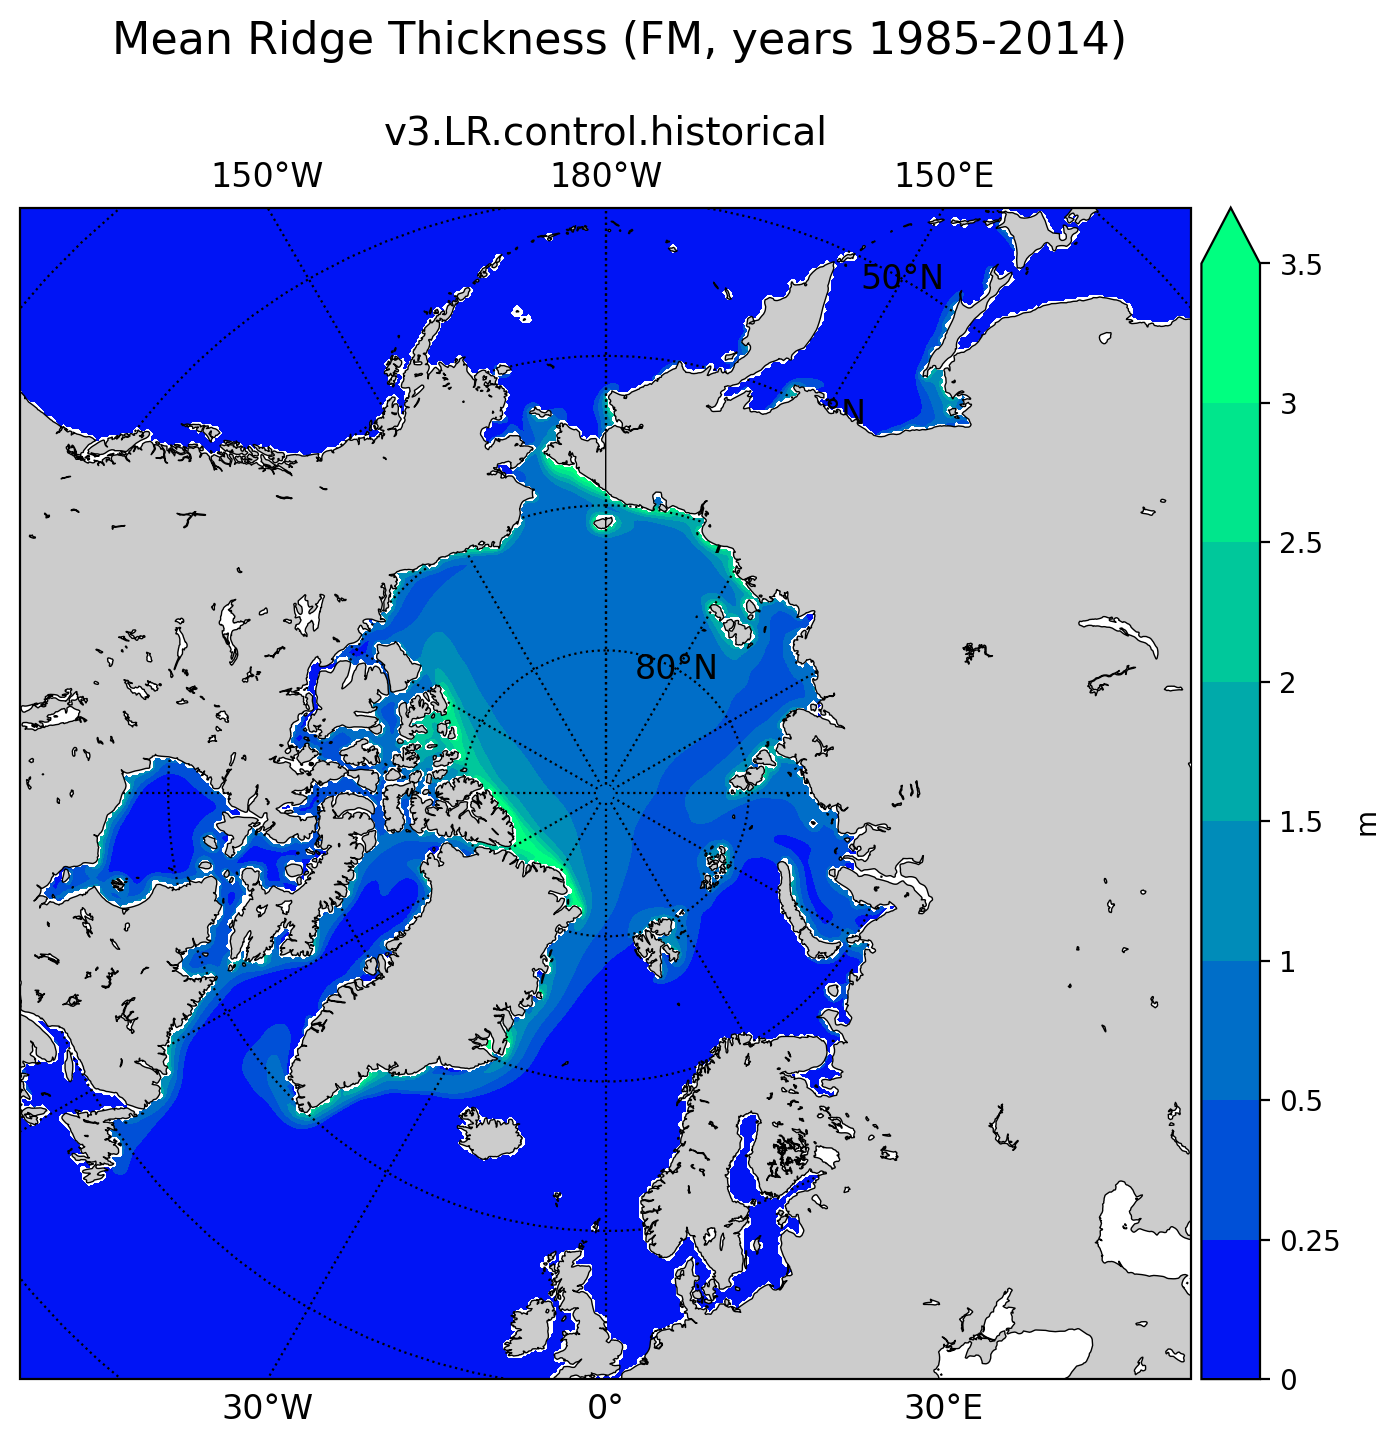
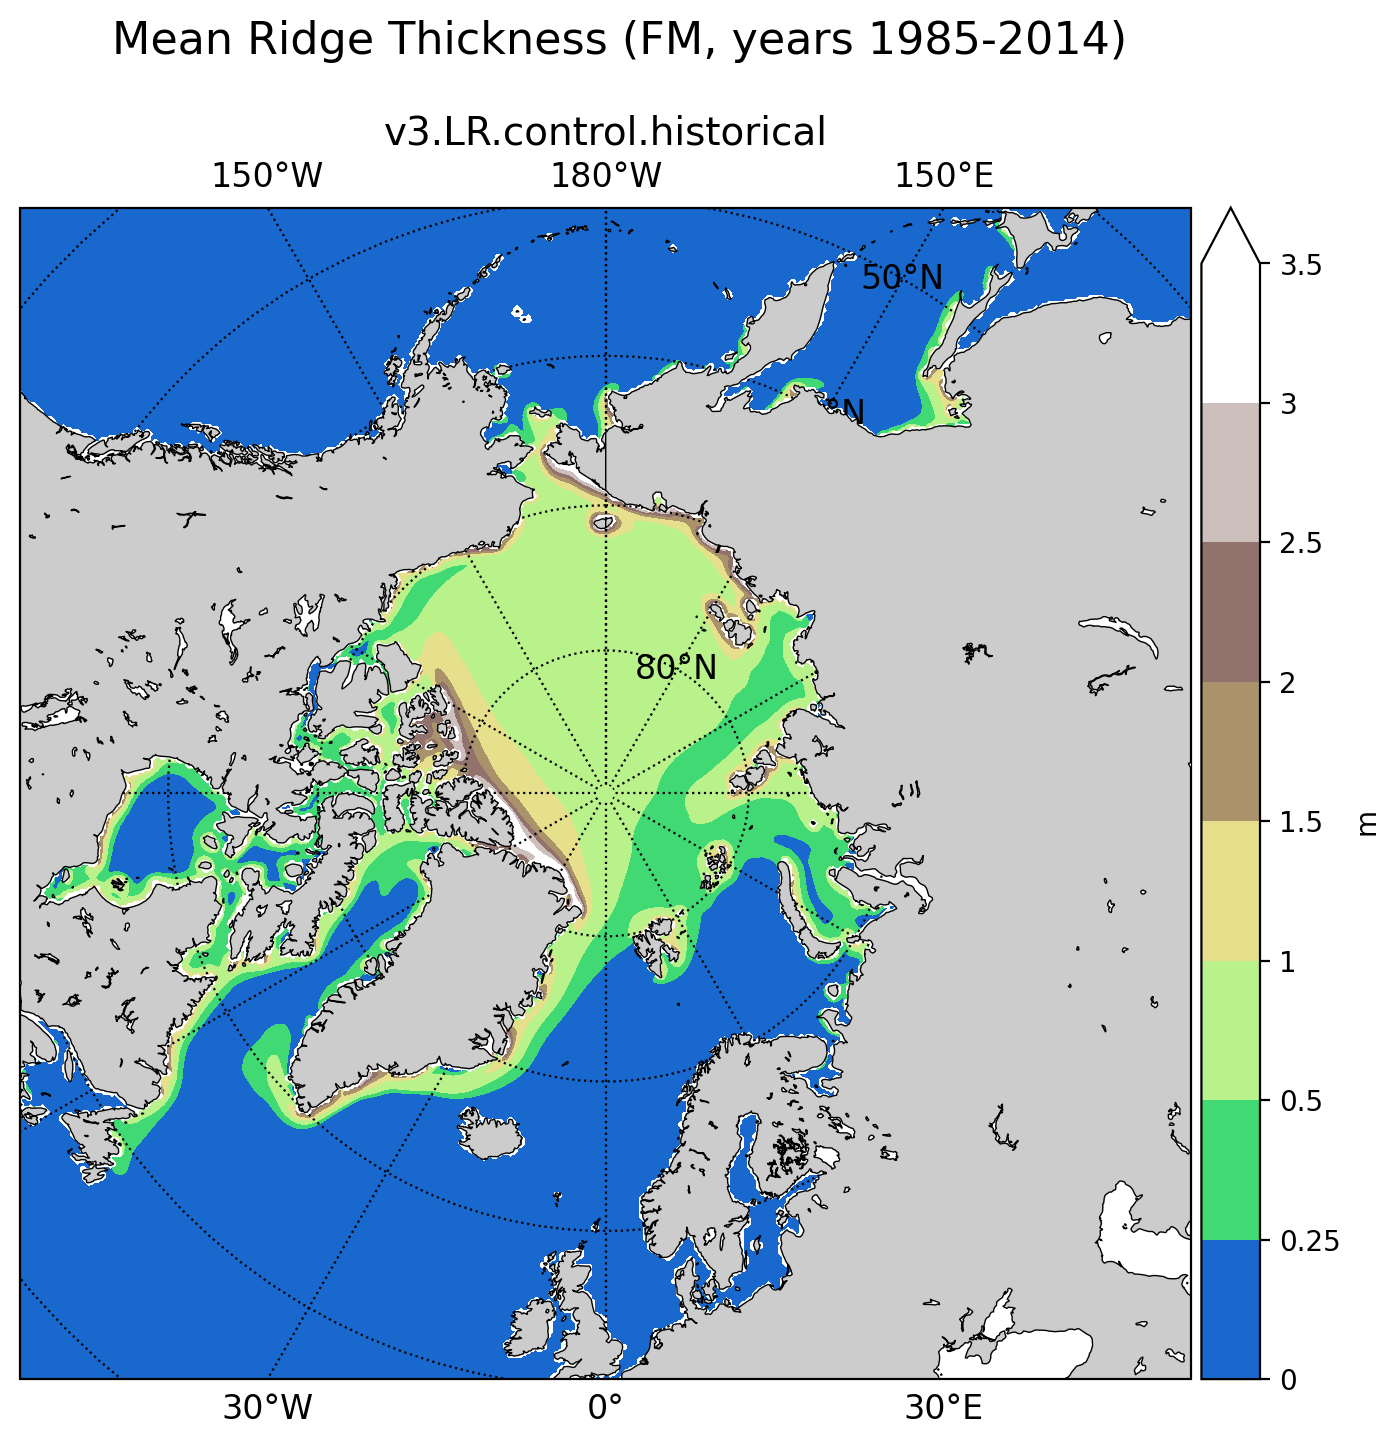
change colormap for ridged ice

diff --git a/docs/users_guide/tasks/climatologyMapSeaIceVolumeRidgeNH.rst b/docs/users_guide/tasks/climatologyMapSeaIceVolumeRidgeNH.rst
@@ -21,7 +21,7 @@ The following configuration options are available for this task::
   ## in the northern hemisphere (NH)
 
   # colormap for model/observations
-  colormapNameResult = winter
+  colormapNameResult = terrain
   # whether the colormap is indexed or continuous
   colormapTypeResult = indexed
   # color indices into colormapName for filled contours

diff --git a/docs/users_guide/tasks/climatologyMapSeaIceVolumeRidgeSH.rst b/docs/users_guide/tasks/climatologyMapSeaIceVolumeRidgeSH.rst
@@ -21,7 +21,7 @@ The following configuration options are available for this task::
   ## in the southern hemisphere (SH)
 
   # colormap for model/observations
-  colormapNameResult = winter
+  colormapNameResult = terrain
   # whether the colormap is indexed or continuous
   colormapTypeResult = indexed
   # color indices into colormapName for filled contours
